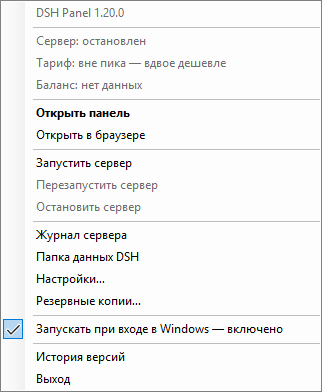
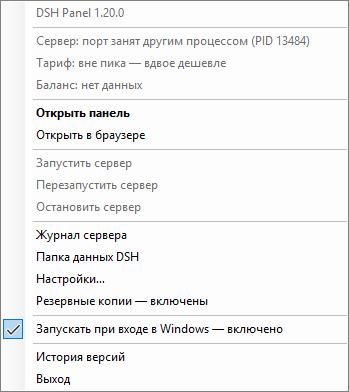
Fix the publication blockers found by the independent audit
- build.ps1 wrote the informational version ("1.20.0+<commit sha>") into build.txt,
  so check-versions.ps1 failed and a tagged CI release could not be built. The stamp
  and the CHANGELOG guard now take the numeric part only; the version checks in
  tools/check-update.ps1 and tools/check-versions.ps1 do the same.
- The CHANGELOG promised that the installer downloads the .NET runtime with a progress
  bar; the runtime is actually bundled and needs no internet. The text now matches the
  code, and a personal path (where the owner keeps signing keys) is gone from it.
- Screenshots were re-taken on a neutral demo profile: the wizard and the backups window
  no longer show the owner's user folder, and the balance is "not set" as intended.
- make-release.ps1 now also scans the content of everything that would be published for
  the builder's user folder and computer name, and for token-like strings: the previous
  guard looked at file names only and let the screenshots through. .gitignore covers
  backup archives, which may carry keys.
- Demo backup archive: its manifest had fractional numbers after a manual edit, which
  the panel could not read ("manifest is unreadable"). The numbers are integers again.
- Smaller things from the audit: .gitattributes for CRLF in scripts, an encoding check
  in CI, README command tables, and wording.

diff --git a/CHANGELOG.md b/CHANGELOG.md
@@ -18,8 +18,9 @@
 - **Полная копия несёт установщик панели.** Установщик кладёт свой файл рядом с панелью, и он
   попадает в полную копию (`installer/dsh-panel-setup.exe`). В описи архива видно строку
   «установщик панели», а `README.txt` внутри архива описывает новый порядок восстановления.
-- **Установщик ставит .NET Desktop Runtime 8 сам.** Если среды нет, он предлагает её поставить,
-  качает с полосой прогресса и ставит тихо; нет интернета — сообщение со ссылкой. Раньше человек
+- **Установщик ставит .NET Desktop Runtime 8 сам, без интернета.** Среда вложена в установщик
+  и распаковывается на месте: загрузки нет, интернет не нужен. Если среда уже есть, шаг
+  пропускается; если поставить не удалось — сообщение со ссылкой на скачивание. Раньше человек
   узнавал о нехватке среды уже после установки: панель не запускалась, а вместо мастера
   появлялось окно самого .NET.
 - **Установщик спрашивает язык** (русский / English / 中文) вместо молчаливого выбора по системе.
@@ -48,7 +49,7 @@
 - **Ключ `--restore [--from файл] [--keys] [--no-engine]`** — тот же накат без окна: данные,
   настройки панели и движок; `--keys` возвращает ещё и ключи с сертификатами.
 - **`tools\check-restore.ps1`** — проверка наката в отдельной песочнице: порча данных, возврат
-  файлов, ключи, права на них, запись с «..» в архиве, чужой архив. 30 проверок.
+  файлов, ключи, права на них, запись с «..» в архиве, чужой архив — весь список в скрипте.
 - **`DSH_PANEL_SSH_DIR`** — свой каталог ключей для проверок: накат закрывает права на каталогах
   ключей, и проверка не должна задевать настоящий `~/.ssh`.
 
@@ -77,7 +78,7 @@
   с состоянием и балансом машины сборки, `DshTray.pdb` и `build.txt` с путём к исходникам
   владельца; в «без .NET» был тот же `.pdb`. Установщик исключал их сам, а архивы — нет. Теперь
   оба архива собираются из копии папки без служебных файлов, и сборка это проверяет
-  (`Assert-CleanArchive` в `tools\make-release.ps1`).
+  (`Assert-CleanArchive` в `tools\pack-panel.ps1`).
 - **Документация догоняла код.** Аудит «обещания README против поведения» нашёл два пропуска:
   `--layout-check` и `--open` работали, но в README не были описаны. Теперь описаны, и в справке
   указан короткий псевдоним `--hidden` у `--tray`.
@@ -102,7 +103,7 @@
   профиль пользователя, папки панели), запись вида `dsh-home/../../…` не распаковывается, а ключи
   из копии, снятой на **другой** машине, не раскладываются по путям той машины: свой каталог
   `.ssh` берётся у текущего пользователя, незнакомый — пропускается с пояснением в отчёте. Этот
-  случай теперь проверяется отдельно (`tools\check-restore.ps1`, 34 проверки).
+  случай теперь проверяется отдельно (`tools\check-restore.ps1`).
 - **Панель останавливает только свой сервер.** Раньше «Остановить» и накат останавливали любой
   `node` на выбранном порту: чужая программа на том же порту могла быть убита. Теперь панель
   отличает свой сервер от чужого и честно сообщает, что порт занят другим процессом.
@@ -439,8 +440,8 @@
   «Добавить каталог…» и список того, что реально попадёт в архив.
 - **Прежние установки не теряют своё:** если в настройках про ключи ещё не сказано, при
   первом запуске переноса они включаются один раз, и в список попадает свой каталог `.ssh`.
-  Каталог `C:\AndroidKeys` (личный) в код больше не вшит — его надо добавить кнопкой
-  «Добавить каталог…», иначе ключ подписи Android в копию не попадёт.
+  Личный каталог с ключами подписи в код больше не вшит — его надо добавить кнопкой
+  «Добавить каталог…», иначе такой ключ в копию не попадёт.
 - `README.txt` внутри архива переписан: ни «наших проектов», ни инструкций под конкретную
   машину; предупреждение о секретах появляется только тогда, когда ключи действительно
   упакованы.
@@ -554,7 +555,7 @@
   только `workspace`, `dsh-home` и `appdata`, а в порядке восстановления не было шага
   для `keys/`. Тот, кто разворачивал копию вручную по этой инструкции, не возвращал
   ключ подписи приложения и ключи SSH. Теперь `keys/android` и `keys/ssh` перечислены,
-  добавлен шаг 7 с возвратом в `C:\AndroidKeys` и `~\.ssh` и закрытием прав через
+  добавлен шаг 7 с возвратом в свой каталог ключей и `~\.ssh` и закрытием прав через
   `icacls`, а предупреждение о секретах перечисляет все три вида ключей.
 - В опись добавлены исходные пути `keysDir` и `sshDir`.
 

diff --git a/AGENTS.md b/AGENTS.md
@@ -50,6 +50,10 @@ powershell -NoProfile -ExecutionPolicy Bypass -File .\tools\make-release.ps1
 
 ## Грабли, на которые уже наступали
 
+- **После `git init` версия exe становится `1.20.0+хеш`.** .NET вписывает в `ProductVersion` хеш
+  коммита, поэтому любые сравнения версий (инструменты и сам апдейтер) обязаны брать только
+  числовую часть: `(... -split '\+')[0]`. Панель это уже делает (`UpdateService.Clean`), а вот
+  `tools\check-update.ps1` из-за этого падал на «новая панель распакована в папку обновления».
 - **`.ps1` и `.iss` требуют BOM.** Инструменты правки (`edit`, `write`) BOM снимают, и PowerShell 5.1
   после этого ломает кириллицу. После правки прогоняй `tools\check-encoding.ps1 -Fix`.
 - **Не перезаписывай ISO, на который смотрит виртуальная машина.** Hyper-V выдаёт права на файл в
@@ -85,6 +89,7 @@ powershell -NoProfile -ExecutionPolicy Bypass -File .\tools\make-release.ps1
 - Языки: русский, английский, китайский. Новая строка интерфейса обязана появиться во всех трёх
   словарях — иначе `check-lang.mjs` не пропустит.
 - Комментарии и документация — по-русски, потому что владелец читает их сам.
-- Версия живёт в `DshTray.csproj` и `AppVersion.cs`, история изменений — в `CHANGELOG.md`.
+- Версия живёт в одном месте — `<Version>` в `DshTray.csproj` (панель читает её из сборки),
+  история изменений — в `CHANGELOG.md`.
   `installer\build-installer.ps1` пишет `appversion.iss` из версии проекта.
 - Лицензия — MIT, автор — `Danerus23`.

diff --git a/README.md b/README.md
@@ -1,8 +1,8 @@
 # DSH Panel
 
 A small Windows tray app for the local **DeepSeek Harness** (DSH) server: it starts and stops the
-server, opens the signed-in web interface, keeps an eye on peak-hour pricing and your account
-balance, and backs up your DSH data.
+server, opens the web interface with the sign-in link, keeps an eye on peak-hour pricing and your
+account balance, and backs up your DSH data.
 
 [Русская версия →](README.ru.md)
 
@@ -19,8 +19,8 @@ balance, and backs up your DSH data.
 - **Peak hours and prices.** Peak or off-peak **in your own time zone**, when the next switch
   happens, the peak windows in local time, and the official price table as a reference. The pricing
   page is re-checked on schedule and applied **only after you confirm it**.
-- **Balance.** Your account balance by the key from `~/.dsh/.credentials.yaml`, refreshed on a
-  schedule, with a warning when it drops below the threshold you set.
+- **Balance.** Your account balance, read with the key from `~/.dsh/.credentials.yaml` and refreshed
+  on a schedule, with a warning when it drops below the threshold you set.
 - **Backups and restore.** One zip with your DSH data and the panel settings, plus a manifest with
   SHA-256 sums and a rotation policy. Optionally it carries the DSH engine and Node (a few hundred
   megabytes), so it can be restored without the internet. **Restore from a backup** is in the same

diff --git a/docs/DEVELOPMENT.md b/docs/DEVELOPMENT.md
@@ -62,10 +62,10 @@ It builds the panel, takes the version from `DshTray.csproj`, writes `installer\
 `-SkipBuild` (use the existing `app` folder), `-AppDir <path>` (publish taken from elsewhere — handy
 when the running panel locks `app\`), `-Iscc <path>`.
 
-**Inno Setup 7 is required.** The wizard includes `Languages\ChineseSimplified.isl`, and that file
-only exists in version 7 (6.7.3 stops with `Couldn't open include file`, which says nothing about the
-real cause); `CreateInputOptionPage` with six parameters is also a version 7 signature. The script
-asks the compiler for its version before building and reports what it found:
+**Inno Setup 7 is required.** What actually decides it: the wizard includes
+`Languages\ChineseSimplified.isl`, and that file only exists in version 7 (6.7.3 stops with
+`Couldn't open include file`, which says nothing about the real cause). The script asks the compiler
+for its version before building and reports what it found:
 
 ```powershell
 winget install --id JRSoftware.InnoSetup.7 -e -s winget
